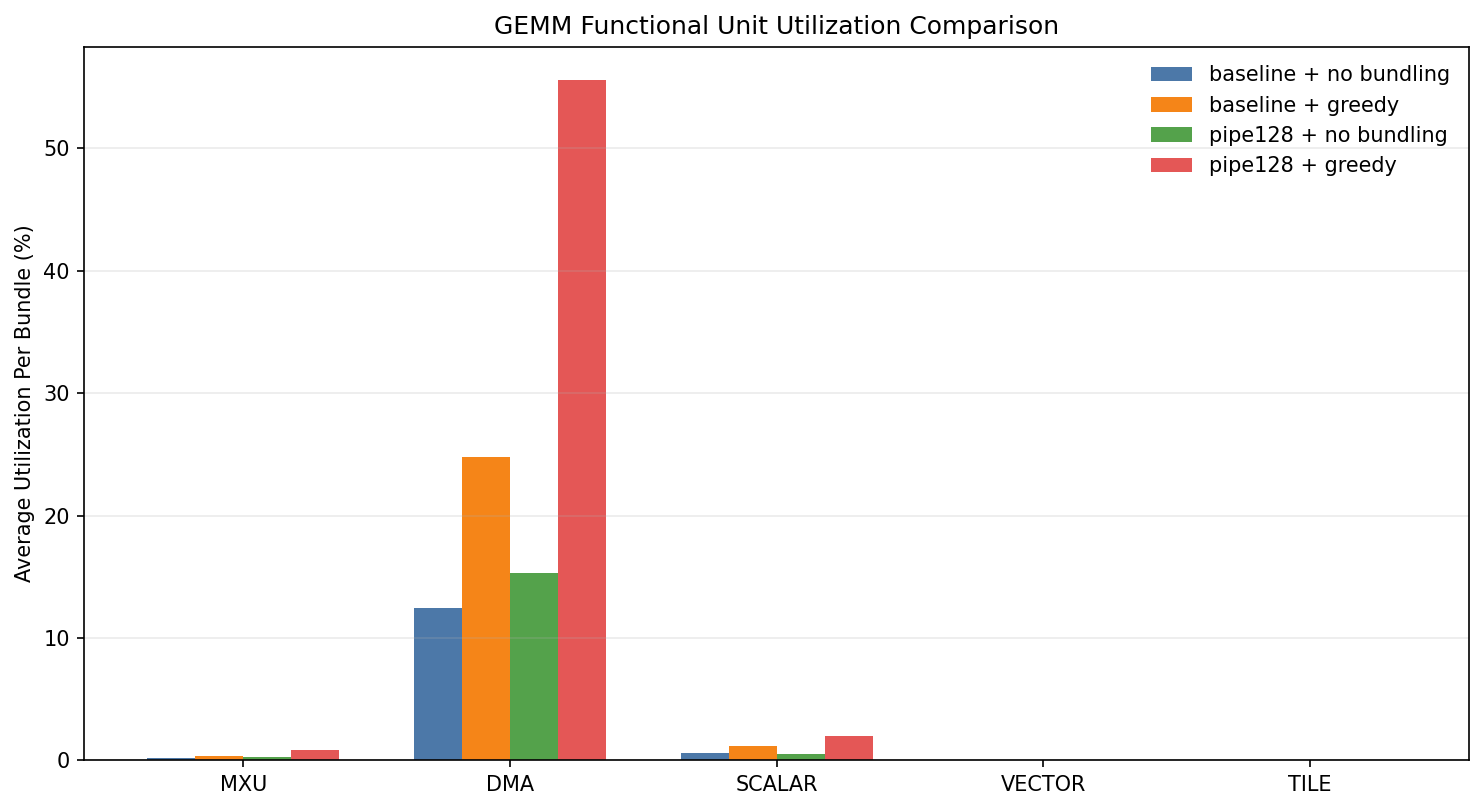
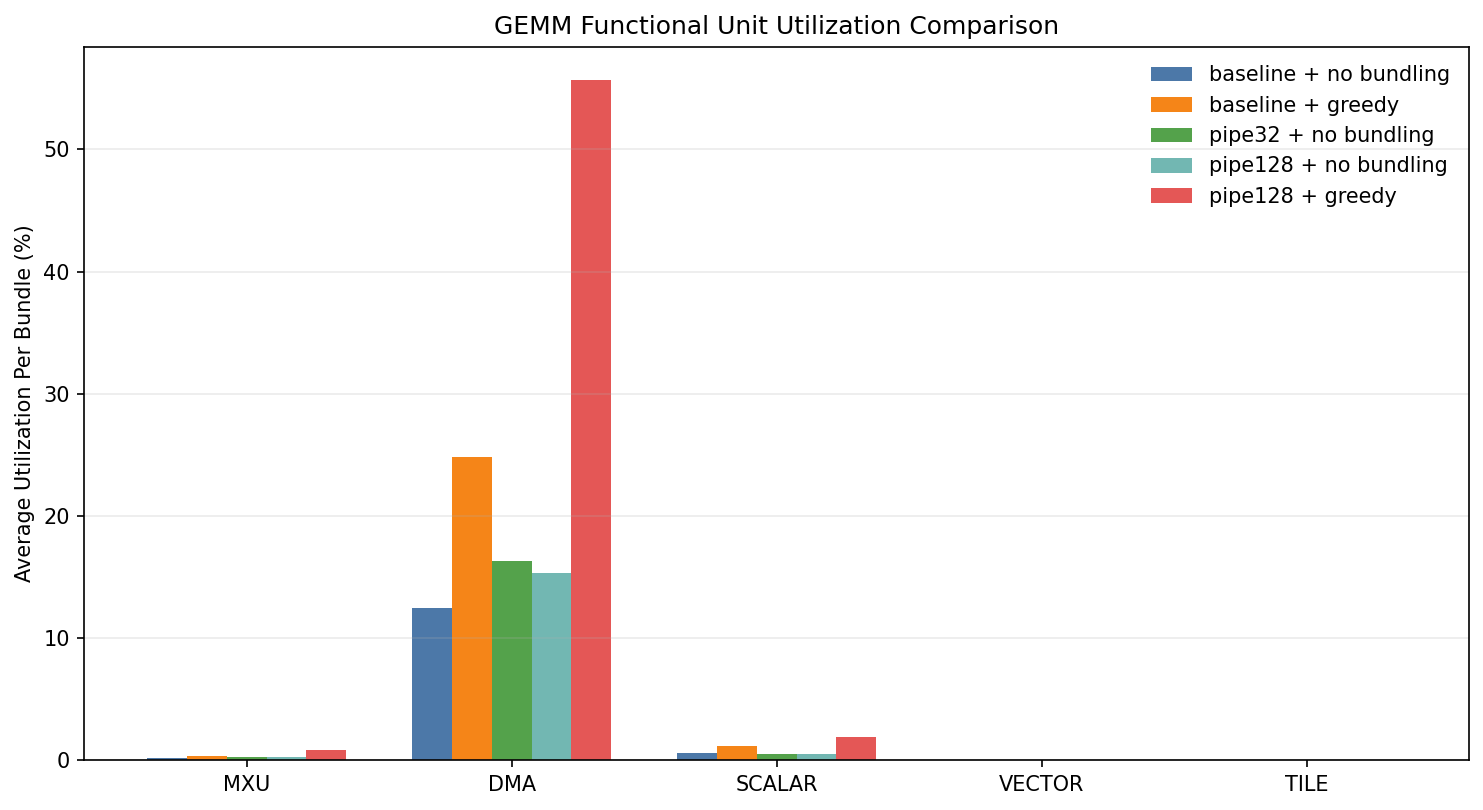
added pipelined gemm 32 reg and comparisons

diff --git a/source/programs/matmul.py b/source/programs/matmul.py
@@ -44,6 +44,18 @@ PIPE_B_STEP_REG = 123
 PIPE_SCRATCH_STEP_REG = 124
 PIPE_ACC_REG = 125
 
+PIPE32_A_BANKS = DMA_PTR_BANKS[:5]
+PIPE32_B_BANKS = DMA_PTR_BANKS[5:10]
+PIPE32_A0_REG = 23
+PIPE32_A1_REG = 24
+PIPE32_B0_REG = 25
+PIPE32_B1_REG = 26
+PIPE32_C_REG = 27
+PIPE32_TILE_SIZE_REG = 28
+PIPE32_CHUNK_REG = 29
+PIPE32_STEP_REG = 30
+PIPE32_ACC_REG = 31
+
 
 def _load_tile(builder, hbm_ptr, scratch_ptr, rows, stride):
     for row in range(rows):
@@ -118,54 +130,94 @@ def _advance_pipe_banks(builder, banks, src_step_reg, dst_step_reg, active):
         builder.s_add(dst_reg, dst_reg, dst_step_reg)
 
 
-def _stream_pair_prefetch(builder, a_hbm_ptr, a_scratch_ptr, a_stride, b_hbm_ptr, b_scratch_ptr, b_stride, prefix=None):
+def _stream_pair_prefetch_generic(
+    builder,
+    a_banks,
+    a_hbm_ptr,
+    a_scratch_ptr,
+    a_stride,
+    b_banks,
+    b_hbm_ptr,
+    b_scratch_ptr,
+    b_stride,
+    tile_size_reg,
+    a_step_reg,
+    b_step_reg,
+    scratch_step_reg,
+    prefix=None,
+):
     prefix = prefix or []
     injected = 0
 
-    _init_pipe_banks(builder, PIPE_A_BANKS, a_hbm_ptr, a_scratch_ptr, a_stride)
-    _init_pipe_banks(builder, PIPE_B_BANKS, b_hbm_ptr, b_scratch_ptr, b_stride)
+    _init_pipe_banks(builder, a_banks, a_hbm_ptr, a_scratch_ptr, a_stride)
+    _init_pipe_banks(builder, b_banks, b_hbm_ptr, b_scratch_ptr, b_stride)
 
-    builder.s_load_imm(PIPE_A_STRIDE_REG, a_stride)
-    builder.s_load_imm(PIPE_B_STRIDE_REG, b_stride)
-    builder.s_mult(PIPE_A_STEP_REG, PIPE_A_STRIDE_REG, PIPE_CHUNK_REG)
-    builder.s_mult(PIPE_B_STEP_REG, PIPE_B_STRIDE_REG, PIPE_CHUNK_REG)
+    chunk = len(a_banks)
+    builder.s_load_imm(a_step_reg, a_stride * chunk)
+    builder.s_load_imm(b_step_reg, b_stride * chunk)
 
-    for row_base in range(0, TILE_SIZE, len(PIPE_A_BANKS)):
-        active = min(len(PIPE_A_BANKS), TILE_SIZE - row_base)
+    for row_base in range(0, TILE_SIZE, len(a_banks)):
+        active = min(len(a_banks), TILE_SIZE - row_base)
         for lane in range(active):
             if injected < len(prefix):
                 prefix[injected]()
                 injected += 1
-            a_src_reg, a_dst_reg = PIPE_A_BANKS[lane]
-            b_src_reg, b_dst_reg = PIPE_B_BANKS[lane]
-            builder.dma_load(a_src_reg, a_dst_reg, PIPE_TILE_SIZE_REG)
-            builder.dma_load(b_src_reg, b_dst_reg, PIPE_TILE_SIZE_REG)
-        if row_base + len(PIPE_A_BANKS) >= TILE_SIZE:
+            a_src_reg, a_dst_reg = a_banks[lane]
+            b_src_reg, b_dst_reg = b_banks[lane]
+            builder.dma_load(a_src_reg, a_dst_reg, tile_size_reg)
+            builder.dma_load(b_src_reg, b_dst_reg, tile_size_reg)
+        if row_base + len(a_banks) >= TILE_SIZE:
             continue
-        _advance_pipe_banks(builder, PIPE_A_BANKS, PIPE_A_STEP_REG, PIPE_SCRATCH_STEP_REG, active)
-        _advance_pipe_banks(builder, PIPE_B_BANKS, PIPE_B_STEP_REG, PIPE_SCRATCH_STEP_REG, active)
+        _advance_pipe_banks(builder, a_banks, a_step_reg, scratch_step_reg, active)
+        _advance_pipe_banks(builder, b_banks, b_step_reg, scratch_step_reg, active)
 
     while injected < len(prefix):
         prefix[injected]()
         injected += 1
 
 
-def _stream_store_pipe(builder, scratch_ptr, hbm_ptr, stride):
-    _init_pipe_banks(builder, PIPE_A_BANKS, scratch_ptr, hbm_ptr, TILE_SIZE)
-    for lane, (_, dst_reg) in enumerate(PIPE_A_BANKS):
+def _stream_pair_prefetch(builder, a_hbm_ptr, a_scratch_ptr, a_stride, b_hbm_ptr, b_scratch_ptr, b_stride, prefix=None):
+    _stream_pair_prefetch_generic(
+        builder,
+        PIPE_A_BANKS, a_hbm_ptr, a_scratch_ptr, a_stride,
+        PIPE_B_BANKS, b_hbm_ptr, b_scratch_ptr, b_stride,
+        PIPE_TILE_SIZE_REG,
+        PIPE_A_STEP_REG, PIPE_B_STEP_REG, PIPE_SCRATCH_STEP_REG,
+        prefix,
+    )
+
+
+def _stream_store_pipe_generic(builder, banks, scratch_ptr, hbm_ptr, stride, tile_size_reg, chunk_reg, stride_reg, step_reg, scratch_step_reg):
+    _init_pipe_banks(builder, banks, scratch_ptr, hbm_ptr, TILE_SIZE)
+    for lane, (_, dst_reg) in enumerate(banks):
         builder.s_load_imm(dst_reg, hbm_ptr + lane * stride)
 
-    builder.s_load_imm(PIPE_A_STRIDE_REG, stride)
-    builder.s_mult(PIPE_A_STEP_REG, PIPE_A_STRIDE_REG, PIPE_CHUNK_REG)
+    builder.s_load_imm(stride_reg, stride)
+    builder.s_mult(step_reg, stride_reg, chunk_reg)
 
-    for row_base in range(0, TILE_SIZE, len(PIPE_A_BANKS)):
-        active = min(len(PIPE_A_BANKS), TILE_SIZE - row_base)
+    for row_base in range(0, TILE_SIZE, len(banks)):
+        active = min(len(banks), TILE_SIZE - row_base)
         for lane in range(active):
-            src_reg, dst_reg = PIPE_A_BANKS[lane]
-            builder.dma_store(src_reg, dst_reg, PIPE_TILE_SIZE_REG)
-        if row_base + len(PIPE_A_BANKS) >= TILE_SIZE:
+            src_reg, dst_reg = banks[lane]
+            builder.dma_store(src_reg, dst_reg, tile_size_reg)
+        if row_base + len(banks) >= TILE_SIZE:
             continue
-        _advance_pipe_banks(builder, PIPE_A_BANKS, PIPE_SCRATCH_STEP_REG, PIPE_A_STEP_REG, active)
+        _advance_pipe_banks(builder, banks, scratch_step_reg, step_reg, active)
+
+
+def _stream_store_pipe(builder, scratch_ptr, hbm_ptr, stride):
+    _stream_store_pipe_generic(
+        builder,
+        PIPE_A_BANKS,
+        scratch_ptr,
+        hbm_ptr,
+        stride,
+        PIPE_TILE_SIZE_REG,
+        PIPE_CHUNK_REG,
+        PIPE_A_STRIDE_REG,
+        PIPE_A_STEP_REG,
+        PIPE_SCRATCH_STEP_REG,
+    )
 
 
 def setup(tpu, M, N, K):
@@ -320,6 +372,85 @@ def matmul_kernel_pipelined_128regs(
             b.mfma_store(PIPE_C_REG)
             c_hbm = C_ptr + m * N + n
             _stream_store_pipe(b, 4 * TILE_ELEMS, c_hbm, N)
+
+
+def matmul_kernel_pipelined_32regs(
+    builder,
+    A_ptr, B_ptr, C_ptr,
+    M, N, K,
+    ):
+    assert M % TILE_SIZE == 0
+    assert N % TILE_SIZE == 0
+    assert K % TILE_SIZE == 0
+
+    b = builder
+    num_k_tiles = K // TILE_SIZE
+
+    b.s_load_imm(PIPE32_A0_REG, 0)
+    b.s_load_imm(PIPE32_A1_REG, TILE_ELEMS)
+    b.s_load_imm(PIPE32_B0_REG, 2 * TILE_ELEMS)
+    b.s_load_imm(PIPE32_B1_REG, 3 * TILE_ELEMS)
+    b.s_load_imm(PIPE32_C_REG, 4 * TILE_ELEMS)
+    b.s_load_imm(PIPE32_TILE_SIZE_REG, TILE_SIZE)
+    b.s_load_imm(PIPE32_CHUNK_REG, len(PIPE32_A_BANKS))
+    b.s_mult(PIPE32_STEP_REG, PIPE32_TILE_SIZE_REG, PIPE32_CHUNK_REG)
+
+    a_buf_regs = [PIPE32_A0_REG, PIPE32_A1_REG]
+    b_buf_regs = [PIPE32_B0_REG, PIPE32_B1_REG]
+    a_buf_ptrs = [0, TILE_ELEMS]
+    b_buf_ptrs = [2 * TILE_ELEMS, 3 * TILE_ELEMS]
+
+    for m in range(0, M, TILE_SIZE):
+        for n in range(0, N, TILE_SIZE):
+            first_a_hbm = A_ptr + m * K
+            first_b_hbm = B_ptr + n
+            _stream_pair_prefetch_generic(
+                b,
+                PIPE32_A_BANKS, first_a_hbm, a_buf_ptrs[0], K,
+                PIPE32_B_BANKS, first_b_hbm, b_buf_ptrs[0], N,
+                PIPE32_TILE_SIZE_REG,
+                21, 22, PIPE32_STEP_REG,
+            )
+
+            for k_tile in range(num_k_tiles):
+                cur = k_tile % 2
+                acc = int(k_tile != 0)
+
+                if k_tile + 1 < num_k_tiles:
+                    nxt = 1 - cur
+                    next_k = (k_tile + 1) * TILE_SIZE
+                    next_a_hbm = A_ptr + m * K + next_k
+                    next_b_hbm = B_ptr + next_k * N + n
+                    _stream_pair_prefetch_generic(
+                        b,
+                        PIPE32_A_BANKS, next_a_hbm, a_buf_ptrs[nxt], K,
+                        PIPE32_B_BANKS, next_b_hbm, b_buf_ptrs[nxt], N,
+                        PIPE32_TILE_SIZE_REG,
+                        21, 22, PIPE32_STEP_REG,
+                        prefix=[
+                            lambda cur=cur: b.mfma_load_weights(b_buf_regs[cur]),
+                            lambda cur=cur, acc=acc: (b.s_load_imm(PIPE32_ACC_REG, acc), b.mfma_matmul(a_buf_regs[cur], PIPE32_ACC_REG)),
+                        ],
+                    )
+                else:
+                    b.mfma_load_weights(b_buf_regs[cur])
+                    b.s_load_imm(PIPE32_ACC_REG, acc)
+                    b.mfma_matmul(a_buf_regs[cur], PIPE32_ACC_REG)
+
+            b.mfma_store(PIPE32_C_REG)
+            c_hbm = C_ptr + m * N + n
+            _stream_store_pipe_generic(
+                b,
+                PIPE32_A_BANKS,
+                4 * TILE_ELEMS,
+                c_hbm,
+                N,
+                PIPE32_TILE_SIZE_REG,
+                PIPE32_CHUNK_REG,
+                21,
+                22,
+                PIPE32_STEP_REG,
+            )
 
 def run_benchmark(M, N, K):
     builder = ProgramBuilder()

diff --git a/plot_gemm_utilization_compare.py b/plot_gemm_utilization_compare.py
@@ -10,6 +10,7 @@ from source.constants import BUNDLE_CYCLES, INST_TYPES, NUM_REGS
 from source.programs.matmul import (
     get_results,
     matmul_kernel,
+    matmul_kernel_pipelined_32regs,
     matmul_kernel_pipelined_128regs,
     setup,
 )
@@ -54,11 +55,12 @@ def plot(results):
     units = ["mxu", "dma", "scalar", "vector", "tile"]
     x = np.arange(len(units))
     width = 0.18
-    colors = ["#4c78a8", "#f58518", "#54a24b", "#e45756"]
+    colors = ["#4c78a8", "#f58518", "#54a24b", "#72b7b2", "#e45756"]
+    width = 0.15
 
     fig, ax = plt.subplots(figsize=(10, 5.5))
     for idx, result in enumerate(results):
-        offsets = x + (idx - 1.5) * width
+        offsets = x + (idx - 2) * width
         heights = [result["util"][unit] for unit in units]
         ax.bar(offsets, heights, width=width, label=result["label"], color=colors[idx])
 
@@ -81,6 +83,7 @@ def main():
     results = [
         run_case("baseline + no bundling", matmul_kernel, OneBundleOneInstructionBundler()),
         run_case("baseline + greedy", matmul_kernel, GreedyBundler()),
+        run_case("pipe32 + no bundling", matmul_kernel_pipelined_32regs, OneBundleOneInstructionBundler()),
         run_case("pipe128 + no bundling", matmul_kernel_pipelined_128regs, OneBundleOneInstructionBundler()),
         run_case("pipe128 + greedy", matmul_kernel_pipelined_128regs, GreedyBundler()),
     ]

diff --git a/plot_tile_size_speedup.py b/plot_tile_size_speedup.py
@@ -1,0 +1,40 @@
+from pathlib import Path
+
+import matplotlib.pyplot as plt
+
+
+OUT_PATH = Path("analysis") / "tile_size_speedup.png"
+
+
+def main():
+    tile_sizes = [64, 128]
+    gemm_cycles = [2396160, 660480]
+    softmax_cycles = [327808, 327808]
+    gemm_speedup = [gemm_cycles[0] / c for c in gemm_cycles]
+    softmax_speedup = [softmax_cycles[0] / c for c in softmax_cycles]
+
+    fig, ax = plt.subplots(figsize=(6.5, 4.2))
+    ax.plot(tile_sizes, gemm_speedup, marker="o", linewidth=2, color="#4c78a8", label="GEMM")
+    ax.plot(tile_sizes, softmax_speedup, marker="o", linewidth=2, color="#f58518", label="Softmax")
+
+    for x, y in zip(tile_sizes, gemm_speedup):
+        ax.text(x, y + 0.05, f"{y:.2f}x", ha="center", color="#4c78a8")
+    for x, y in zip(tile_sizes, softmax_speedup):
+        ax.text(x, y - 0.12, f"{y:.2f}x", ha="center", color="#f58518")
+
+    ax.set_title("Tile Size vs Performance")
+    ax.set_xlabel("Tile Size (Systolic Array Dimension)")
+    ax.set_ylabel("Speedup Relative to Tile Size 64")
+    ax.set_xticks(tile_sizes)
+    ax.grid(alpha=0.25)
+    ax.legend(frameon=False)
+
+    plt.tight_layout()
+    OUT_PATH.parent.mkdir(parents=True, exist_ok=True)
+    plt.savefig(OUT_PATH, dpi=150, bbox_inches="tight")
+    plt.close(fig)
+    print(f"Wrote {OUT_PATH}")
+
+
+if __name__ == "__main__":
+    main()

diff --git a/benchmark_gemm_profiles.py b/benchmark_gemm_profiles.py
@@ -9,6 +9,7 @@ from source.programs.matmul import (
     get_results,
     matmul_kernel,
     matmul_kernel_all_regs,
+    matmul_kernel_pipelined_32regs,
     matmul_kernel_pipelined_128regs,
     setup,
 )
@@ -96,6 +97,7 @@ def main():
     kernels = [
         ("baseline", matmul_kernel),
         ("all_regs", matmul_kernel_all_regs),
+        ("pipe_32", matmul_kernel_pipelined_32regs),
         ("pipe_128", matmul_kernel_pipelined_128regs),
     ]
 

diff --git a/analysis/gemm_profiles/optimization_comparison.md b/analysis/gemm_profiles/optimization_comparison.md
@@ -1,0 +1,11 @@
+# GEMM Optimization Comparison
+
+Shape: `256 x 256 x 256`
+
+| Configuration | Instructions | Bundles | Cycles | Speedup vs Baseline |
+| --- | ---: | ---: | ---: | ---: |
+| baseline | 10288 | 10288 | 1316864 | 1.00x |
+| baseline + greedy | 10288 | 5160 | 660480 | 1.99x |
+| pipe32 | 7840 | 7840 | 1003520 | 1.31x |
+| pipe128 | 8332 | 8332 | 1066496 | 1.23x |
+| pipe128 + greedy | 8332 | 2301 | 294528 | 4.47x |
